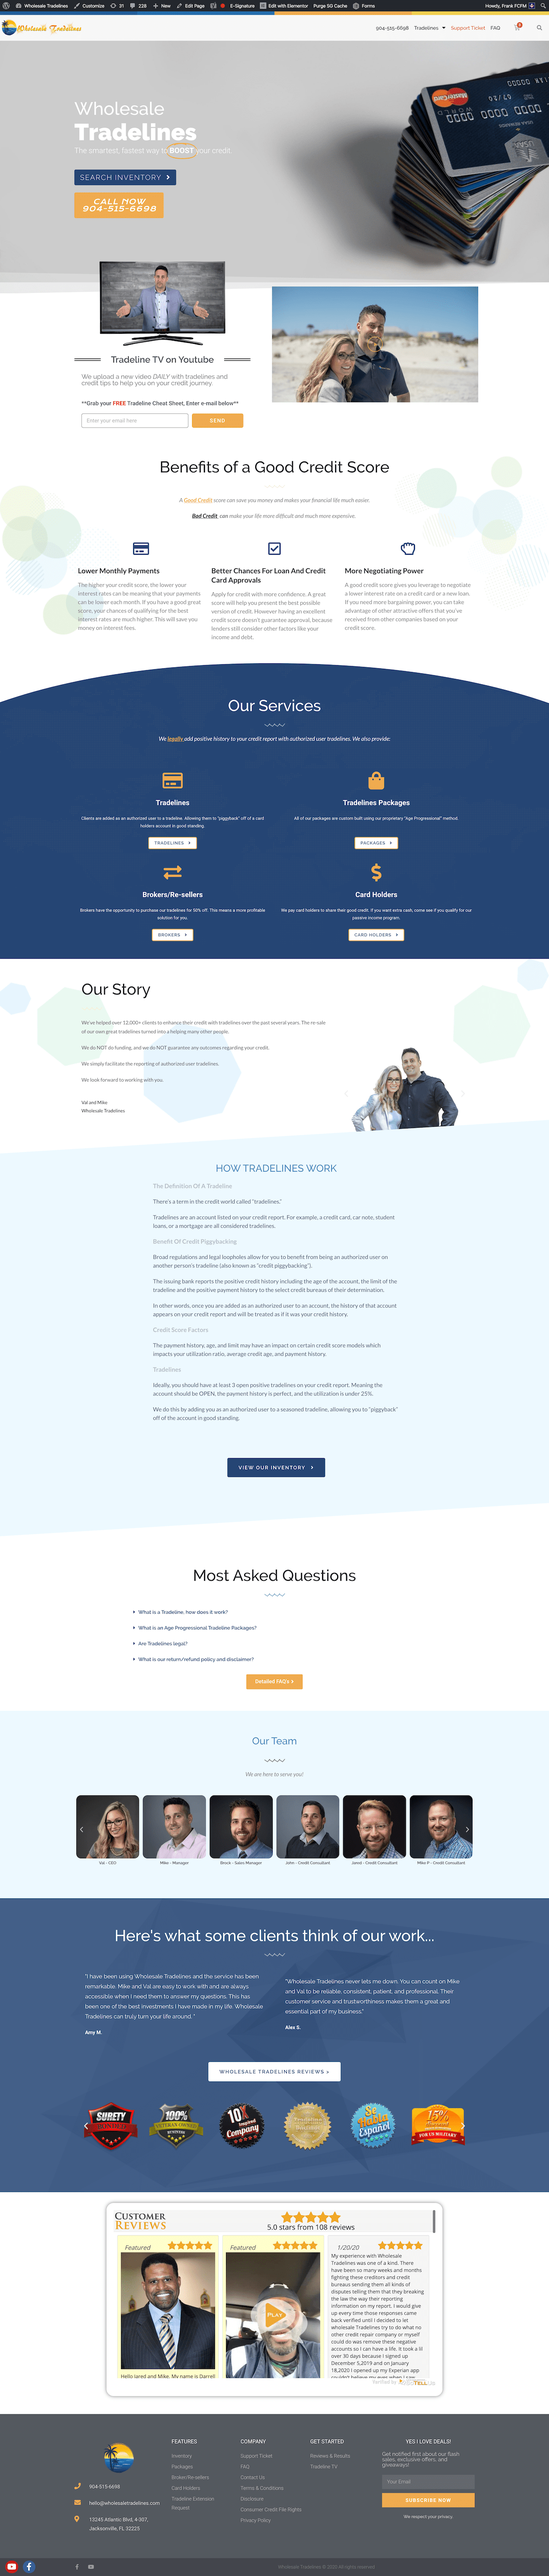
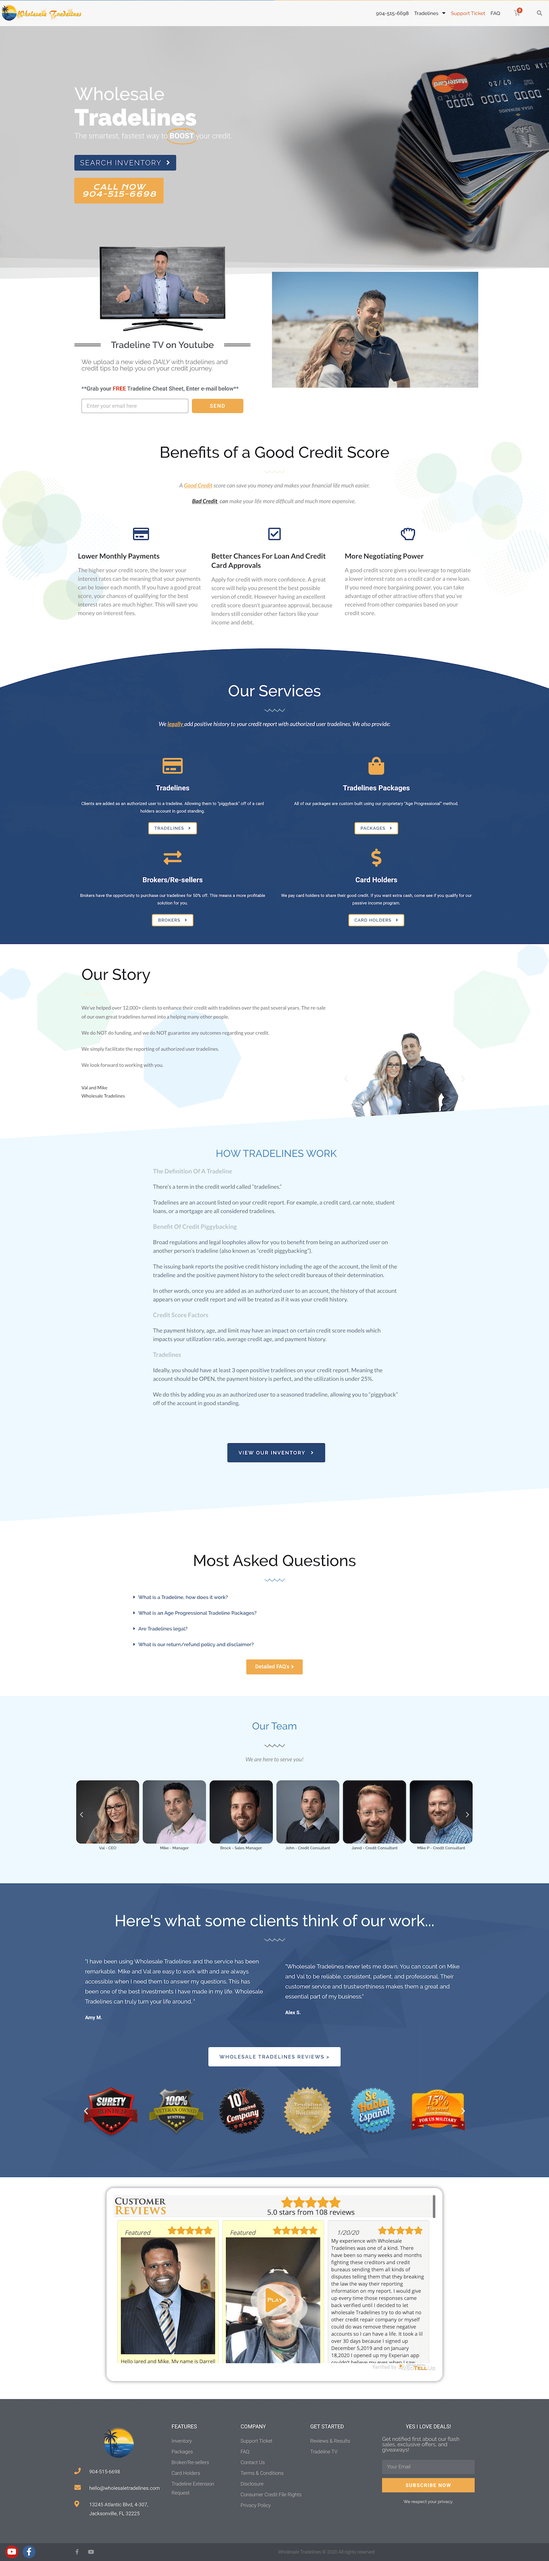
Add README and crop WordPress admin bar from showcase screenshot
The Wholesale Tradelines screenshot was a logged-in view with the
WordPress admin toolbar across the top; cropped it off. README documents
how to run, edit content, update the resume, deploy and set up the form.

diff --git a/README.md b/README.md
@@ -1,0 +1,54 @@
+# franklam.us
+
+Frank Lam's portfolio. Static site (no build step): plain HTML pages that load React and
+Babel from a CDN and render in the browser. Deployed to Vercel from this repo.
+
+The design system (warm neutrals, JetBrains Mono, rust accent) was generated with Claude and
+lives in `_ds/`. Don't edit it by hand unless you mean to change the design system.
+
+## Run it locally
+
+```bash
+npx serve -l 8000
+```
+
+Then open http://localhost:8000. (`serve` understands clean URLs like `/projects`, the same
+way Vercel does. `python -m http.server` doesn't.)
+
+In Claude Code, `.claude/launch.json` already has this as the `portfolio-static` server.
+
+## Where things live
+
+| To change…                         | Edit                                                                  |
+| ---------------------------------- | --------------------------------------------------------------------- |
+| Any copy, projects, jobs, skills   | `content.js` (all text is data; pages just render it)                 |
+| The resume                         | replace `assets/frank-lam-resume.pdf`, then update `content.js` to match |
+| Header, footer, shared helpers     | `layout.jsx`                                                          |
+| One page's layout                  | `index.html`, `projects.html`, `experience.html`, `contact.html`      |
+| Focus styles, mobile breakpoints   | `assets/site.css`                                                     |
+| Link-preview image (LinkedIn etc.) | `assets/og-image.png` (1200×630)                                      |
+| URL rules, redirects               | `vercel.json`                                                         |
+
+In `content.js` strings, `**double asterisks**` render as bold.
+
+## Deploying
+
+Push to `master` and Vercel deploys it to https://www.franklam.us. Pushes to any other
+branch get a Vercel preview URL, which is the safest way to review a change first.
+
+## Contact form
+
+The form on `/contact` opens the visitor's email app with a prefilled message until you set up a
+form service. To have it post directly instead:
+
+1. Create a form at https://formspree.io (free tier is fine).
+2. Paste its endpoint (`https://formspree.io/f/xxxxxxxx`) into `contactForm.formspreeEndpoint`
+   in `content.js`.
+
+## Notes and tradeoffs
+
+- Pages are compiled in the browser by Babel standalone. That's simple, but it's the biggest
+  remaining load-time cost. Precompiling the JSX at deploy time is the next performance step.
+- Most styling is inline React (design-system components). Anything that needs a media query or
+  `:focus-visible` goes in `assets/site.css`.
+- Keep `content.js` and the resume PDF in sync; the resume is the source of truth for facts.
